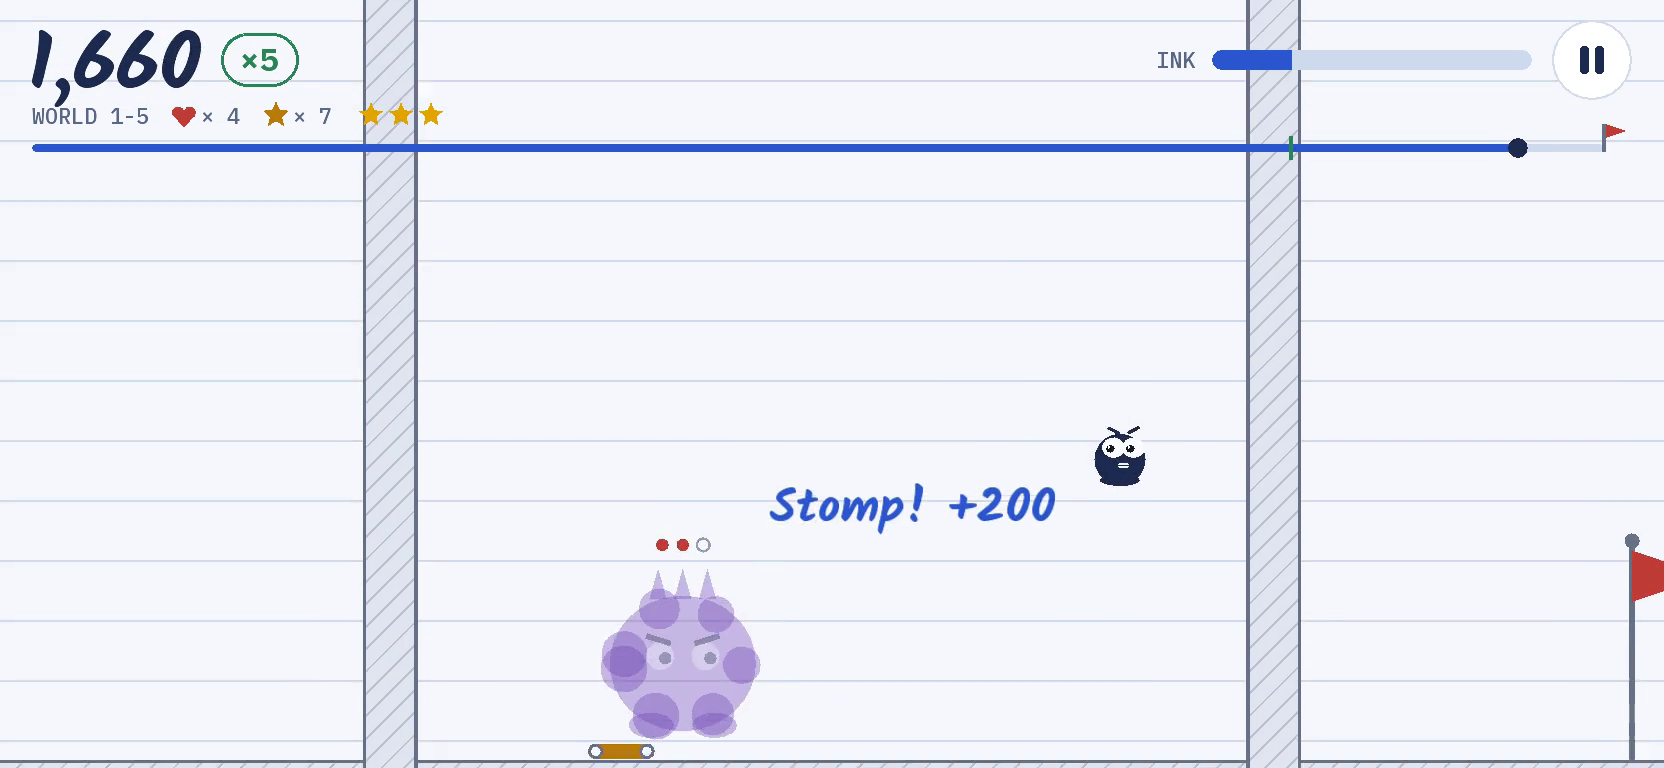
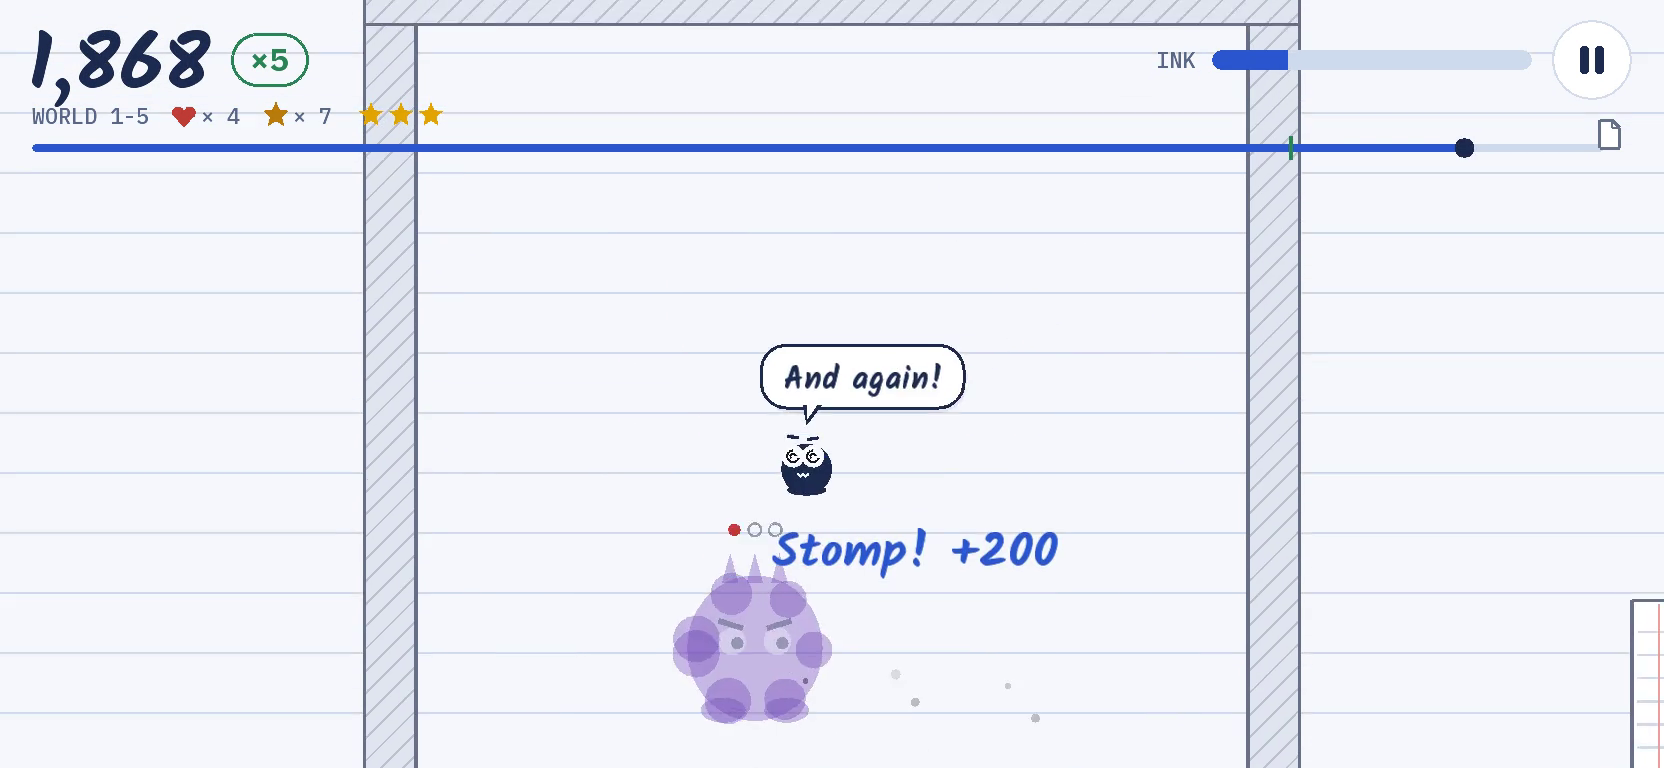
Boss arenas are closed rooms; the finish is the next page
Boss fights could be skipped: springs hooked on an arena wall let the
runner climb over the far wall and reach the finish with the boss still
standing.
- Every arena now has a plain rock roof on its walls (the Big Smudge's
  stays lower and spiked), so the room is closed until the boss is
  beaten and the far wall opens.
- A stage with a boss only finishes once the boss is down, and a runner
  that somehow ends up outside the closed arena is put back in the middle.
- Tests: every arena is roofed, and getting out without beating the boss
  never clears the stage (both failed before this change).

The finish is redrawn as the notebook's next page: a sheet of ruled paper
standing on the ground, its top corner folded over, with an arrow on it.
The HUD's progress line ends in the same little sheet. The README's boss
screenshot and GIF are re-rendered.

Claude-Session: https://claude.ai/code/session_01YBVgLxtprxQ2vD9GFpVWNq

diff --git a/core/src/main/kotlin/com/pranshuparmar/inkmayhem/render/WorldRenderer.kt b/core/src/main/kotlin/com/pranshuparmar/inkmayhem/render/WorldRenderer.kt
@@ -589,8 +589,8 @@ class WorldRenderer(
     }
 
     /**
-     * The checkpoint bookmarks and the finish flag (with a little doodled castle past it). Poles
-     * draw [behind] the ground; flags in front.
+     * The checkpoint bookmarks and the finish, the next page. Poles and the page draw [behind]
+     * the ground; the bookmarks in front.
      */
     private fun drawFlags(sim: GameSim, pal: Palette, px: Float, behind: Boolean) {
         val l = sim.stage?.layout ?: return
@@ -610,46 +610,62 @@ class WorldRenderer(
                 shapes.triangle(x + 0.275f, y - 1.65f, x + 0.55f, y - 1.65f, x + 0.55f, y - 1.35f)
             }
         }
-        if (!l.finishX.isNaN()) {
-            val x = l.finishX
-            val y = l.finishLevel
-            if (behind) {
-                castle(x + 4f, y, pal, lw)
-                shapes.color(pal[Tok.GRAPHITE]).line(x, y, x, y - 3.4f, lw * 1.6f)
-                shapes.color(pal[Tok.GRAPHITE]).circle(x, y - 3.45f, 0.12f)
-            } else {
-                // a pennant, waving a little
-                val wave = sin(sim.simT * 4f) * 0.08f
-                shapes.color(pal[Tok.BEAM]).triangle(x, y - 3.3f, x + 1.2f, y - 2.95f + wave, x, y - 2.5f)
-            }
-        }
+        if (behind && !l.finishX.isNaN()) nextPage(l.finishX, l.finishLevel, sim.simT, pal, lw)
     }
 
-    /** A hand-drawn tower: walls, battlements and an arched door. */
-    private fun castle(x: Float, ground: Float, pal: Palette, lw: Float) {
-        val w = 2.6f
-        val h = 2.2f
-        val top = ground - h
-        shapes.color(pal[Tok.ROCK]).rect(x, top, w, h)
-        shapes.color(pal[Tok.GRAPHITE])
-        shapes.line(x, ground, x, top - 0.5f, lw)
-        shapes.line(x + w, ground, x + w, top - 0.5f, lw)
-        // battlements
-        var bx = x
-        var up = true
-        while (bx < x + w - 0.01f) {
-            val nx = min(x + w, bx + w / 5f)
-            val yy = if (up) top - 0.5f else top
-            shapes.color(pal[Tok.ROCK]).rect(bx, yy, nx - bx, top - yy + 0.01f)
-            shapes.color(pal[Tok.GRAPHITE]).line(bx, yy, nx, yy, lw)
-            if (nx < x + w - 0.01f) shapes.line(nx, top - 0.5f, nx, top, lw)
-            bx = nx
-            up = !up
+    /**
+     * The finish: the next page, a fresh sheet of ruled paper standing on the ground with its top
+     * corner folded over (the fold stirs a little) and a hand-drawn arrow on to it. Its left edge
+     * is the finish line.
+     */
+    private fun nextPage(x: Float, ground: Float, t: Float, pal: Palette, lw: Float) {
+        val w = PAGE_W
+        val f = PAGE_FOLD
+        val top = ground - PAGE_H
+        val x1 = x + w
+        val fx = x1 - f
+        val fy = top + f
+        // a soft shadow the sheet's own shape, then the sheet, its corner cut along the fold
+        val so = 0.14f
+        shapes.color(pal[Tok.SHADOW], 0.35f)
+        shapes.rect(x + so, fy + so, w, PAGE_H - f - so)
+        shapes.rect(x + so, top + so, w - f, f)
+        shapes.triangle(fx + so, top + so, fx + so, fy + so, x1 + so, fy + so)
+        shapes.color(pal[Tok.PAPER_WHITE])
+        shapes.rect(x, fy, w, PAGE_H - f)
+        shapes.rect(x, top, w - f, f)
+        shapes.triangle(fx, top, fx, fy, x1, fy)
+        // its ruled lines (stopping at the fold) and margin
+        shapes.color(pal[Tok.RULE])
+        var y = top + 0.5f
+        while (y < ground - 0.15f) {
+            val xe = if (y < fy) fx + (y - top) else x1
+            shapes.line(x + 0.08f, y, xe - 0.08f, y, lw * 0.7f)
+            y += PAGE_RULE
         }
-        // door
-        val dx = x + w / 2f
-        shapes.color(pal[Tok.GRAPHITE]).rect(dx - 0.4f, ground - 0.9f, 0.8f, 0.9f)
-        shapes.circle(dx, ground - 0.9f, 0.4f)
+        shapes.color(pal[Tok.MARGIN]).line(x + 0.42f, top + 0.06f, x + 0.42f, ground, lw * 0.8f)
+        // the outline: five edges, one of them the fold
+        shapes.color(pal[Tok.GRAPHITE])
+        shapes.line(x, ground, x, top, lw)
+        shapes.line(x, top, fx, top, lw)
+        shapes.line(fx, top, x1, fy, lw)
+        shapes.line(x1, fy, x1, ground, lw)
+        // the folded corner: the back of the sheet lying over its front
+        val stir = sin(t * 2.6f) * 0.05f
+        val tx = fx + stir
+        val ty = fy + stir
+        shapes.color(pal[Tok.PAPER_WHITE]).triangle(fx, top, x1, fy, tx, ty)
+        shapes.color(pal[Tok.SHADOW], 0.3f).triangle(fx, top, x1, fy, tx, ty)
+        shapes.color(pal[Tok.GRAPHITE])
+        shapes.line(fx, top, tx, ty, lw)
+        shapes.line(tx, ty, x1, fy, lw)
+        // on to the next page
+        val ay = top + PAGE_H * 0.58f
+        val aw = lw * 1.9f
+        shapes.color(pal[Tok.INK])
+        shapes.line(x + 0.62f, ay, x1 - 0.42f, ay, aw)
+        shapes.line(x1 - 0.42f, ay, x1 - 0.86f, ay - 0.36f, aw)
+        shapes.line(x1 - 0.42f, ay, x1 - 0.86f, ay + 0.36f, aw)
     }
 
     private fun drawDrops(sim: GameSim, pal: Palette, vx0: Float, vx1: Float, px: Float) {
@@ -1253,6 +1269,11 @@ class WorldRenderer(
 
     companion object {
         private const val PI_F = kotlin.math.PI.toFloat()
+        /** The finish's sheet: width, height, the folded corner's size and its line spacing (m). */
+        private const val PAGE_W = 2.2f
+        private const val PAGE_H = 3.0f
+        private const val PAGE_FOLD = 0.65f
+        private const val PAGE_RULE = 0.36f
         /** A broken tide fades out over this long. */
         private const val TIDE_DRAIN_S = 1.5f
         /** Speech bubbles stay below the HUD. */

diff --git a/core/src/test/kotlin/com/pranshuparmar/inkmayhem/game/BossTest.kt b/core/src/test/kotlin/com/pranshuparmar/inkmayhem/game/BossTest.kt
@@ -44,6 +44,46 @@ class BossTest {
         }
     }
 
+    @ParameterizedTest
+    @EnumSource(BossKind::class)
+    fun `every arena is a closed room, walls and a roof with nothing over them`(kind: BossKind) {
+        val p = StagePlay(arenaStage(kind), solve = false)
+        try {
+            val a = p.sim.arenas.single()
+            val top = a.level - GameSim.ARENA_WALL
+            // a roof over the whole room, its underside no higher than the walls' tops (y points down)
+            val roofed = p.sim.ceilings.any { c -> c.x <= a.x0 + 1e-3f && c.right >= a.x1 - 1e-3f && c.y + c.h >= top - 1e-3f }
+            assertTrue(roofed, "no roof over the ${kind.title}'s arena")
+        } finally {
+            p.dispose()
+        }
+    }
+
+    @ParameterizedTest
+    @EnumSource(BossKind::class)
+    fun `getting out of the arena without beating the boss doesn't clear the stage`(kind: BossKind) {
+        val p = StagePlay(arenaStage(kind), solve = false)
+        try {
+            var steps = 0
+            while (!p.sim.bossFight && p.sim.state == GameState.RUN && steps++ < 200) p.play(0.25f)
+            assertTrue(p.sim.bossFight, p.summary)
+            // however it got there: the runner past the far wall, rolling on towards the finish
+            val a = p.sim.arenas.single()
+            val body = p.sim.runner.body
+            body.setTransform(a.x1 + 3f, a.level - p.sim.runner.r - 0.05f, 0f)
+            body.setLinearVelocity(4f, 0f)
+            p.sim.runner.dir = 1
+            val st = p.play(8f) { }
+            assertTrue(st != GameState.CLEAR, "cleared with ${kind.title} still standing")
+            if (st == GameState.RUN) {
+                val x = p.sim.runner.body.position.x
+                assertTrue(x > a.x0 - 0.5f && x < a.x1 + 0.5f, "runner at $x, outside the arena ${a.x0}..${a.x1}")
+            }
+        } finally {
+            p.dispose()
+        }
+    }
+
     @Test
     fun `in an arena the runner rolls back and forth between the walls`() {
         // the Airliner flies too high to touch a runner on the ground

diff --git a/core/src/main/kotlin/com/pranshuparmar/inkmayhem/ui/Hud.kt b/core/src/main/kotlin/com/pranshuparmar/inkmayhem/ui/Hud.kt
@@ -15,7 +15,7 @@ import kotlin.math.min
 /**
  * The stage HUD: score with the ×combo chip on the left, "WORLD 1-1" with the lives and stars
  * under it; ink meter and the pause button on the right; a progress line underneath with the
- * checkpoint and the flag. Text is cached and rebuilt only when the
+ * checkpoint and the finish. Text is cached and rebuilt only when the
  * numbers change.
  */
 class Hud {
@@ -134,7 +134,7 @@ class Hud {
         return 1f + 0.25f * (up - down)
     }
 
-    /** The stage progress line under the HUD: start to flag, with the checkpoint and the runner. */
+    /** The stage progress line under the HUD: start to finish, with the checkpoint and the runner. */
     fun drawProgress(shapes: Shapes, pal: Palette, wDp: Float, sim: GameSim, safeRight: Float) {
         val l = sim.stage?.layout ?: return
         val x0 = left
@@ -150,8 +150,20 @@ class Hud {
             val cx = at(l.checkpoints[i].x)
             shapes.color(if (i <= reached) pal[Tok.ROPE] else pal[Tok.GRAPHITE]).rect(cx - 1f, y - 4f, 2f, 12f)
         }
-        shapes.color(pal[Tok.GRAPHITE]).rect(x1 - 1f, y - 10f, 2f, 14f)
-        shapes.color(pal[Tok.BEAM]).triangle(x1 + 1f, y - 10f, x1 + 11f, y - 6.5f, x1 + 1f, y - 3f)
+        // the finish: a little sheet with its corner folded, as on the page
+        val sx = x1 - 2f
+        val sy = y - 12f
+        shapes.color(pal[Tok.PAPER_WHITE]).rect(sx, sy + 4f, 10f, 10f)
+        shapes.rect(sx, sy, 6f, 4f)
+        shapes.triangle(sx + 6f, sy, sx + 6f, sy + 4f, sx + 10f, sy + 4f)
+        shapes.color(pal[Tok.GRAPHITE])
+        shapes.line(sx, sy + 14f, sx, sy, 1.5f)
+        shapes.line(sx, sy, sx + 6f, sy, 1.5f)
+        shapes.line(sx + 6f, sy, sx + 10f, sy + 4f, 1.5f)
+        shapes.line(sx + 10f, sy + 4f, sx + 10f, sy + 14f, 1.5f)
+        shapes.line(sx + 10f, sy + 14f, sx, sy + 14f, 1.5f)
+        shapes.line(sx + 6f, sy, sx + 6f, sy + 4f, 1.2f)
+        shapes.line(sx + 6f, sy + 4f, sx + 10f, sy + 4f, 1.2f)
         shapes.color(pal[Tok.INK]).circle(rx, y + 2f, 5f)
     }
 

diff --git a/core/src/main/kotlin/com/pranshuparmar/inkmayhem/game/Stage.kt b/core/src/main/kotlin/com/pranshuparmar/inkmayhem/game/Stage.kt
@@ -120,7 +120,7 @@ class StageLayout {
     /** The last checkpoint (the midway one), or NaN without any. */
     val checkpointX: Float get() = checkpoints.lastOrNull()?.x ?: Float.NaN
     var finishX = Float.NaN
-    /** The finish flag stands on this level. */
+    /** The finish (the next page) stands on this level. */
     var finishLevel = 0f
 
     /** Top of the highest solid surface of the page under [x] (blocks only, not hidden or bonus ones), or NaN over a gap. */
@@ -380,11 +380,18 @@ class StageBuilder(private val l: StageLayout) {
     /**
      * A boss arena [len] metres long from the cursor, with [kind] waiting at its far end: flat
      * ground, a wall that closes behind the runner, and a far wall that opens once it's beaten.
-     * The Big Smudge's has a spiked roof [ARENA_ROOF] up.
+     * It's a closed room, so the only way on is through the boss: a plain rock roof sits on the
+     * walls (out of reach of any bounce, but there to stop a climb over them), and the Big
+     * Smudge's roof is lower, [ARENA_ROOF] up, and spiked.
      */
     fun arena(kind: BossKind, len: Float = ARENA_LEN): StageBuilder {
         val roof = if (kind == BossKind.BIG_SMUDGE) level - ARENA_ROOF else Float.NaN
-        if (!roof.isNaN()) l.rocks += StageLayout.Rock(x, len, roof, spiked = true)
+        if (!roof.isNaN()) {
+            l.rocks += StageLayout.Rock(x, len, roof, spiked = true)
+        } else {
+            val w = GameSim.ARENA_WALL_W
+            l.rocks += StageLayout.Rock(x - w, len + 2f * w, level - GameSim.ARENA_WALL, spiked = false)
+        }
         l.arenas += StageLayout.ArenaSpec(x, x + len, level, kind, roof)
         return flat(len)
     }
@@ -549,7 +556,7 @@ class StageBuilder(private val l: StageLayout) {
         return this
     }
 
-    /** The finish flag at the cursor, then some ground to roll out on. */
+    /** The finish (the next page) at the cursor, then some ground to roll out on. */
     fun finish(runOut: Float = 16f): StageBuilder {
         l.finishX = x
         l.finishLevel = level

diff --git a/core/src/main/kotlin/com/pranshuparmar/inkmayhem/game/GameSim.kt b/core/src/main/kotlin/com/pranshuparmar/inkmayhem/game/GameSim.kt
@@ -1040,7 +1040,7 @@ class GameSim(
         val rb = runner.body
 
         if (state == GameState.CLEAR) {
-            // past the flag the runner rolls to a stop
+            // past the finish the runner rolls to a stop
             val w = rb.angularVelocity
             rb.applyTorque((3f * (0f - w)).coerceIn(-7f, 7f), true)
             if (sdt > 0f) {
@@ -1295,6 +1295,14 @@ class GameSim(
             events.sound(Sfx.RUMBLE)
             events.shake(0.25f)
             events.burst(a.x0, a.level - 2f, 14, 3f, Tok.GRAPHITE)
+            return
+        }
+        // the only way on is through the boss: a runner that somehow got out goes back in
+        if (px > a.x1 + ARENA_WALL_W || px < a.x0 - ARENA_WALL_W || py < a.level - ARENA_WALL) {
+            runner.body.setTransform(a.mid, a.level - runner.r - 0.05f, 0f)
+            runner.body.setLinearVelocity(0f, 0f)
+            runner.body.angularVelocity = 0f
+            events.toast("No way round ${a.kind.title}. Beat it first!", force = true)
             return
         }
         if (runner.dir > 0 && px > a.x1 - runner.r - TURN_GAP) runner.dir = -1
@@ -2057,7 +2065,8 @@ class GameSim(
             run.save(this, next)
             events.checkpoint()
         }
-        if (state == GameState.RUN && px > l.finishX) {
+        // a stage with a boss only finishes once the boss is beaten
+        if (state == GameState.RUN && px > l.finishX && arenas.all { it.won }) {
             state = GameState.CLEAR
             clearedAt = realTime
             drawing = null

diff --git a/core/src/main/kotlin/com/pranshuparmar/inkmayhem/game/StageSession.kt b/core/src/main/kotlin/com/pranshuparmar/inkmayhem/game/StageSession.kt
@@ -151,7 +151,7 @@ class StageSession(val sim: GameSim, private val store: StageStore) {
         const val RETRY_INTRO_S = 1.2f
         const val DYING_S = 1.6f
         const val CLEAR_DELAY = 1.0
-        /** Tally: points per unit of ink left at the flag. */
+        /** Tally: points per unit of ink left at the finish. */
         const val INK_BONUS = 10
 
         /** A stage can be played once the one before it has been cleared. */

diff --git a/docs/TUNING.md b/docs/TUNING.md
@@ -81,7 +81,7 @@ it's built, [Under the hood](TECH.md).
 
 `core/.../game/Stage.kt` (layout and builder), `World1.kt` … `World5.kt` (the stages),
 `Stages.kt` (the worlds in order), `StageSession.kt` (lives, retries, stars). Each stage runs on
-its own `GameSim`. Lengths are start to flag.
+its own `GameSim`. Lengths are start to finish.
 
 | Stage | Speed | Length | The idea |
 |---|---|---|---|
@@ -131,7 +131,7 @@ has three gold stars, all but 2-1 and 2-3 a heart, and every world's last stage 
 | Lift | 0.5 m thick kinematic platform in a 3 m slot; waits at the bottom until the runner lands on it, rises at 1.6 m/s to the top and stays. Riding it doesn't count as being stuck |
 | Seesaw | plank = gap + 0.6 m, 0.3 m thick, density 0.6, pinned 0.6 m above the ground at the gap's centre, resting on the near edge, angular damping 1.5 |
 | Checkpoint | a bookmark; the snapshot is taken 0.6 m past it (once the hazard just before is judged) and a retry starts 1 m past the last one passed, with at least 8 m of flat before the next hazard. One per stage, two in 1-1 |
-| Finish | a flag; past it the runner brakes to a stop |
+| Finish | the next page: a sheet of ruled paper 2.2 m wide and 3 m tall standing on the ground, its top corner folded over (0.65 m) and an arrow on it; its left edge is the line, and past it the runner brakes to a stop. A stage with a boss only finishes once the boss is beaten |
 | Heart | +1 life (max 9), pickup radius 0.85 m like drops |
 | Hint | a dotted guide in an ink's colour with an arrow and the ink's name 1.35 m above it; fades in from 12 m to 9 m before it and out over 0.5 s once passed. A tuning gate is a hint that also tunes |
 | High road | a 0.6 m ledge 3.2 m up, reached by a spring 2.6 m before it; a gold star and a heart sit on it |
@@ -149,7 +149,7 @@ has three gold stars, all but 2-1 and 2-3 a heart, and every world's last stage 
 | Ink pool | a gap whose ink surface lies 1.5 m below the ground (or below the lower side) |
 | Pool wall | a 2.5 m pool whose far bank is 2.4 m higher; a spring 0.2–1 m before the edge carries the runner over |
 | Tide | the ink tide rises once the runner passes its start and breaks at its end |
-| Arena | 13 m of flat ground with walls 12 m high at each end; the Big Smudge's has a spiked roof 8.2 m up |
+| Arena | 13 m of flat ground with walls 12 m high at each end and a plain rock roof on them, a closed room; the Big Smudge's roof is lower, 8.2 m up, and spiked. A runner that somehow gets out while the boss stands is put back in the middle |
 
 ### Stage rules
 
@@ -167,7 +167,7 @@ has three gold stars, all but 2-1 and 2-3 a heart, and every world's last stage 
 | Intro | 2.2 s (stage name and lives) before the first try, 1.2 s before a retry; the runner waits, and during a retry's intro ink can already go down |
 | Death | −1 life; after 1.6 s, retry from the checkpoint (or the start) with the score, combo, ink and hazard judgements the player had there |
 | Game over | no lives left: Try again restarts the stage with 3 lives |
-| Clear | 1 s after the flag: score + ink left × 10 = total |
+| Clear | 1 s after the finish: score + ink left × 10 = total |
 | Stars | 1 for clearing, 1 for no deaths in the stage, 1 for no hazard cleared with heavier ink than it needed |
 | Unlock | a stage opens once the one before has at least one star |
 
@@ -332,7 +332,7 @@ lesson passes, then happy. A pen-down on Dot or its balloon draws nothing.
 |---|---|
 | Title | what the game opens on: the name (64 dp, smaller if it and the runner beside it don't fit), "Draw the way ahead with your S Pen.", the three inks drawn with their pressures, then **Start** (nothing cleared yet) or **Play**, naming the first stage not yet cleared (with every stage cleared it opens the list), and **Stages**, **How to play**, **Settings**. Fades in over 0.5 s; Android back leaves the app |
 | Stage list | a **Menu** button at the top left goes back to the title, as does Android back. Every world's tab opens, locked or not (a padlock marks a locked world), to show its stage names; only open stages play. Opened from a stage it shows that stage's world |
-| World peek | behind the stage list, the tab's world: its finale stage, built but never stepped, without notes or the runner, panned at 2.6 m/s from start to flag and round again (a fade at the turn), its ground 84 % down a tall screen (under the card) or 70 % down a wide one; the page and palette are the world's (Midnight Ink's dark page), the veil over it 30 %, and the world's tune plays. Still with reduced motion |
+| World peek | behind the stage list, the tab's world: its finale stage, built but never stepped, without notes or the runner, panned at 2.6 m/s from start to finish and round again (a fade at the turn), its ground 84 % down a tall screen (under the card) or 70 % down a wide one; the page and palette are the world's (Midnight Ink's dark page), the veil over it 30 %, and the world's tune plays. Still with reduced motion |
 | Menus | the title screen and the ending show only the ruled paper; Ink Rush plays (the Music slider turns it down or off) |
 | Pause | the top-right button in a stage (two bars; ⋯ on the stage list), Android back, or leaving the app, during a stage's intro, play or a lost life's moment. A stroke being drawn is let go. The page dims; the card has the stage, **Resume**, **Restart** (the stage from the start, keeping the lives), **Settings** and **Stage list**. Android back on it resumes |
 | Countdown | Resume mid-play counts 3, 2, 1, 0.5 s each, with a rising chime; the stage, its music and the pen stay held until it ends. Resuming during an intro skips it |

diff --git a/docs/TECH.md b/docs/TECH.md
@@ -89,7 +89,7 @@ World units are metres, y down, gravity 10.
 **The simulation.** `GameSim` is the game's rules: the runner, ink, creatures, power-ups,
 bosses, scoring and deaths, on a fixed 1/60 s tick (at most four per frame). Stages are written
 with a small builder (`StageBuilder`: flat, slope, gap, wall, climb, slide, lift, seesaw,
-creatures, items, checkpoint, flag…) into plain data (`StageLayout`), which `GameSim.loadStage`
+creatures, items, checkpoint, finish…) into plain data (`StageLayout`), which `GameSim.loadStage`
 turns into physics. A `StageSession` runs lives, intros, retries from the checkpoint, game over
 and the clear tally, each stage on its own `GameSim`. The tutorial runs on another, in sandbox
 mode (hand-built terrain), so nothing in the game loop needs a tutorial branch beyond choosing
@@ -160,7 +160,8 @@ survives them.
 - **The ink tide is a rubber band.** Its pace depends on how far behind it is: it settles 5 m
   behind a runner at full speed and catches one that stalls for about a second and a half, so a
   clean run sees it looming at the edge of the screen.
-- **Bosses are walkers in an arena**, each weak to one thing its world taught. The test bot
+- **Bosses are walkers in a closed arena**, each weak to one thing its world taught. Walls and a
+  roof seal the room and the finish waits for the win, so there is no way round a boss. The test bot
   can't script a fight by position, so it reacts to where the boss and its creatures are.
 - **Music as looping sounds.** Each tune is a seamless loop under 1 MB, played as a looping
   `Sound` rather than streamed `Music`, so it starts in sync and costs no decoder; only the

diff --git a/README.md b/README.md
@@ -29,7 +29,7 @@ stroke to erase it (you get half its ink back). Hover to see where the nib will 
 ## What's in it
 
 - 📖 **25 hand-built stages in five worlds**: The Notebook, The Cellar, Up High, The Castle and
-  Midnight Ink. Each stage has lives, a checkpoint, a flag and up to three stars.
+  Midnight Ink. Each stage has lives, a checkpoint, the next page to reach and up to three stars.
 - 👾 **A page that fights back**: Blots to bounce on, Erasers that rub out your ink, paper planes,
   ink beetles that eat rope, rolling boulders, crumbling bricks, ink pools and a rising ink tide.
 - 👑 **A boss at the end of every world**, each beaten with something that world taught you.
@@ -64,7 +64,7 @@ Want the details? **[Read the full tour →](docs/FEATURES.md)**
   </tr>
   <tr>
     <td width="33%"><img src="media/shots/midnight.png" alt="A World 5 stage on a dark page with the ink tide rising behind" width="100%"><br><sub>Midnight Ink</sub></td>
-    <td width="33%"><img src="media/shots/boss.png" alt="A boss fight in a walled arena" width="100%"><br><sub>A boss fight</sub></td>
+    <td width="33%"><img src="media/shots/boss.png" alt="Dot stomping the Big Blot in its walled arena" width="100%"><br><sub>A boss fight</sub></td>
     <td width="33%"><img src="media/shots/stages.png" alt="The stage list for World 5 with stars and best scores" width="100%"><br><sub>The stage list</sub></td>
   </tr>
 </table>

diff --git a/docs/FEATURES.md b/docs/FEATURES.md
@@ -64,7 +64,8 @@ built round one idea:
 - **A checkpoint** midway: a death costs a life and restarts there, with the score, ink and
   combo you had when you passed it. With no lives left it's game over: **Try again** restarts
   the stage with three.
-- **The flag** ends it. The clear card tallies the score plus ink left × 10, and awards up to
+- **The next page** ends it: a fresh sheet standing at the end of the stage, its corner folded.
+  Roll past it and the clear card tallies the score plus ink left × 10, and awards up to
   three stars.
 - **First runs teach.** On a world's first stage, until it has a star, Dot stops before each new
   thing and waits until you've drawn a stroke that will work.
@@ -135,7 +136,8 @@ shows which ones you have.
 
 ## Bosses
 
-Each world ends in a walled arena. The near wall closes behind Dot, which rolls back and forth
+Each world ends in an arena: a closed room with walls and a roof, so the only way on is through
+the boss. The near wall closes behind Dot, which rolls back and forth
 between the walls while the boss theme plays. Each boss is beaten with something its world
 taught:
 
